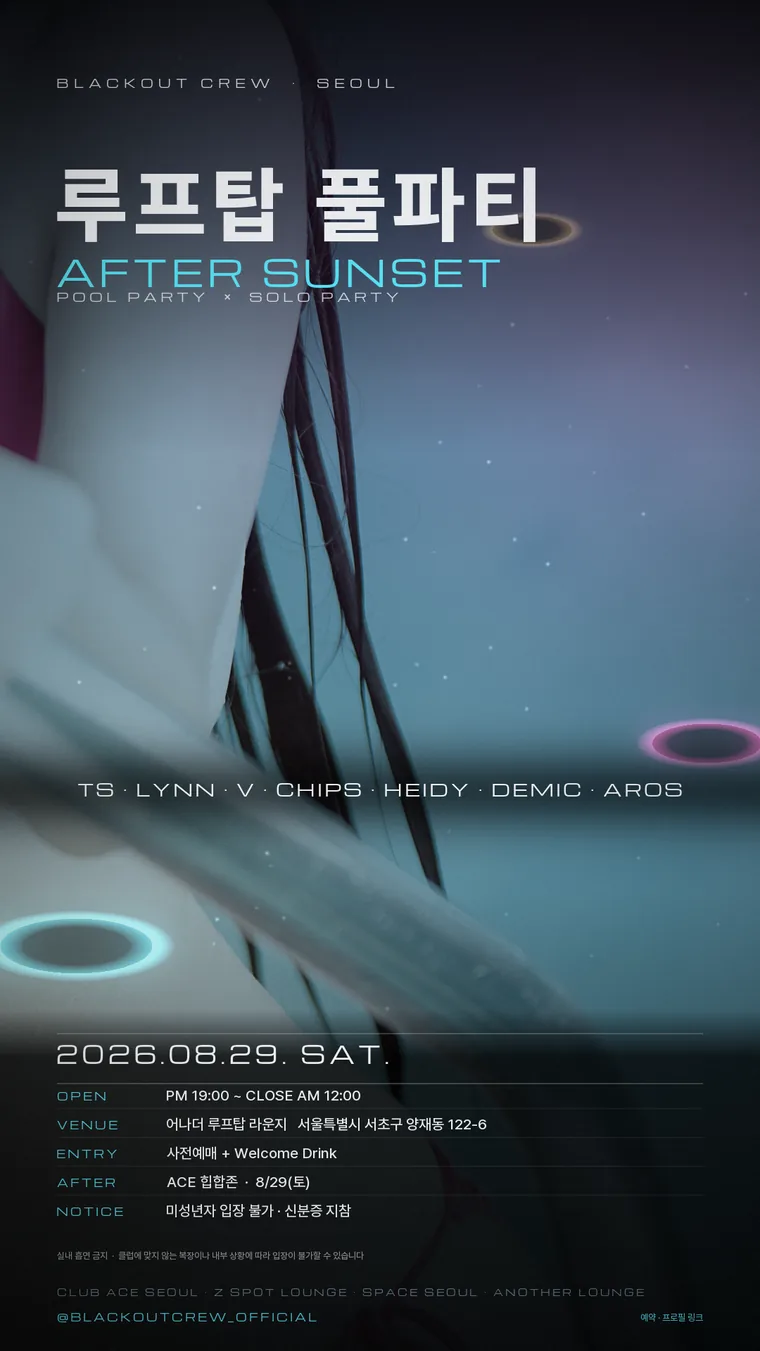
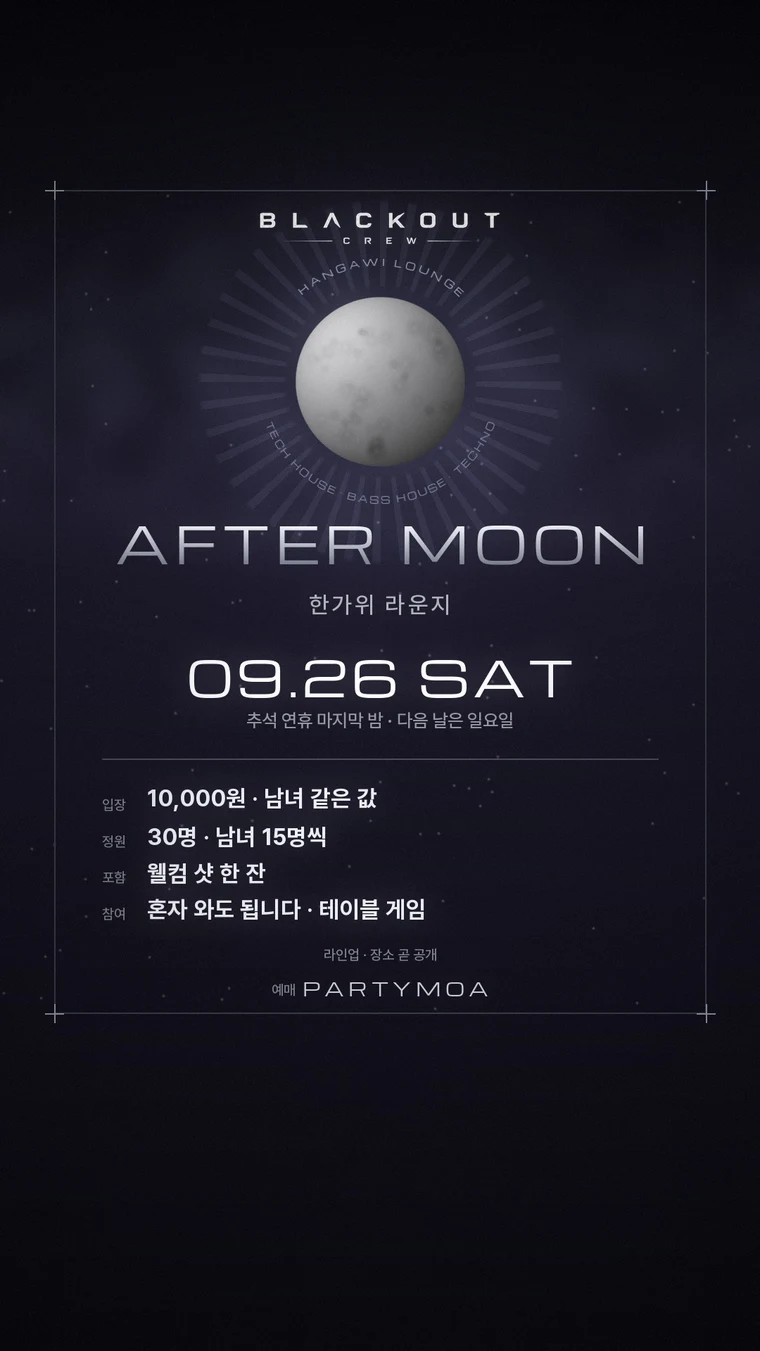
사진과 남은 문구까지 AFTER MOON 으로
글자만 바꿔 놓고 그림은 풀파티 컷이 그대로였다. 카드에 물놀이 사진이
깔린 채 '한가위 라운지' 라고 적혀 있으면 둘 중 하나는 거짓말이다.

- 가로 키비주얼을 따로 만들었다. **세로 포스터를 눕혀 쓸 수 없다** —
  가운데로 쌓은 판을 3:2 에 넣으면 위아래가 잘려 정보가 사라진다.
  달을 왼쪽에 두고 글을 오른쪽 기둥에 쌓았다
- 가로에서는 달을 한 단 죽였다. 세로보다 크게 들어가서 그대로 두면
  밝은 픽셀이 기준(7%)을 넘고 흰 원이 화면을 먹는다 — 9.0% → 1.7%
- 크기를 사이트가 쓰던 그대로 맞췄다(1600×1067 · 760×1351). 다른
  크기로 넣으면 카드가 밀리거나 잘린다
- 팝업 그림은 lazy 를 안 쓴다. 59KB 를 전제로 그렇게 둔 것이라 무게도
  그 근처(58KB)로 맞췄다 — 안 그러면 판이 뜨고 한 박자 뒤에 채워진다
- POOL PARTY × SOLO PARTY 가 네 곳에 남아 있었다. HANGAWI LOUNGE 로

diff --git a/index.html b/index.html
@@ -178,7 +178,7 @@
       </span>
       <span class="party__info">
         <span class="party__kick">
-          <span data-i18n="evt.kicker">POOL PARTY × SOLO PARTY</span>
+          <span data-i18n="evt.kicker">HANGAWI LOUNGE</span>
           <b class="party__dday" data-evt-dday hidden></b>
         </span>
         <span class="party__name" data-i18n="party.title">AFTER MOON</span>
@@ -424,7 +424,7 @@
 
     <div class="evt__body">
       <p class="evt__kicker">
-        <span data-i18n="evt.kicker">POOL PARTY × SOLO PARTY</span>
+        <span data-i18n="evt.kicker">HANGAWI LOUNGE</span>
         <!-- 남은 날. **'며칠 남았다' 가 날짜보다 훨씬 급하게 읽힌다** -->
         <b class="evt__dday" data-evt-dday hidden></b>
       </p>
@@ -480,7 +480,7 @@
     <button class="modal__x" type="button" data-close-party aria-label="Close">✕</button>
 
     <p class="party__kick">
-      <span data-i18n="evt.kicker">POOL PARTY × SOLO PARTY</span>
+      <span data-i18n="evt.kicker">HANGAWI LOUNGE</span>
       <b class="party__dday" data-evt-dday hidden></b>
     </p>
     <h2 class="pd__title" id="pdTitle" data-i18n="party.title">AFTER MOON</h2>

diff --git a/assets/js/i18n.js b/assets/js/i18n.js
@@ -315,7 +315,7 @@ const I18N = {
     'apply.other': 'Other',
 
     /* Event popup */
-    'evt.kicker': 'POOL PARTY × SOLO PARTY',
+    'evt.kicker': 'HANGAWI LOUNGE',
     'evt.day': 'SAT',
     'evt.venue': 'Venue TBA',
     'evt.sold': '1st round sold out',
